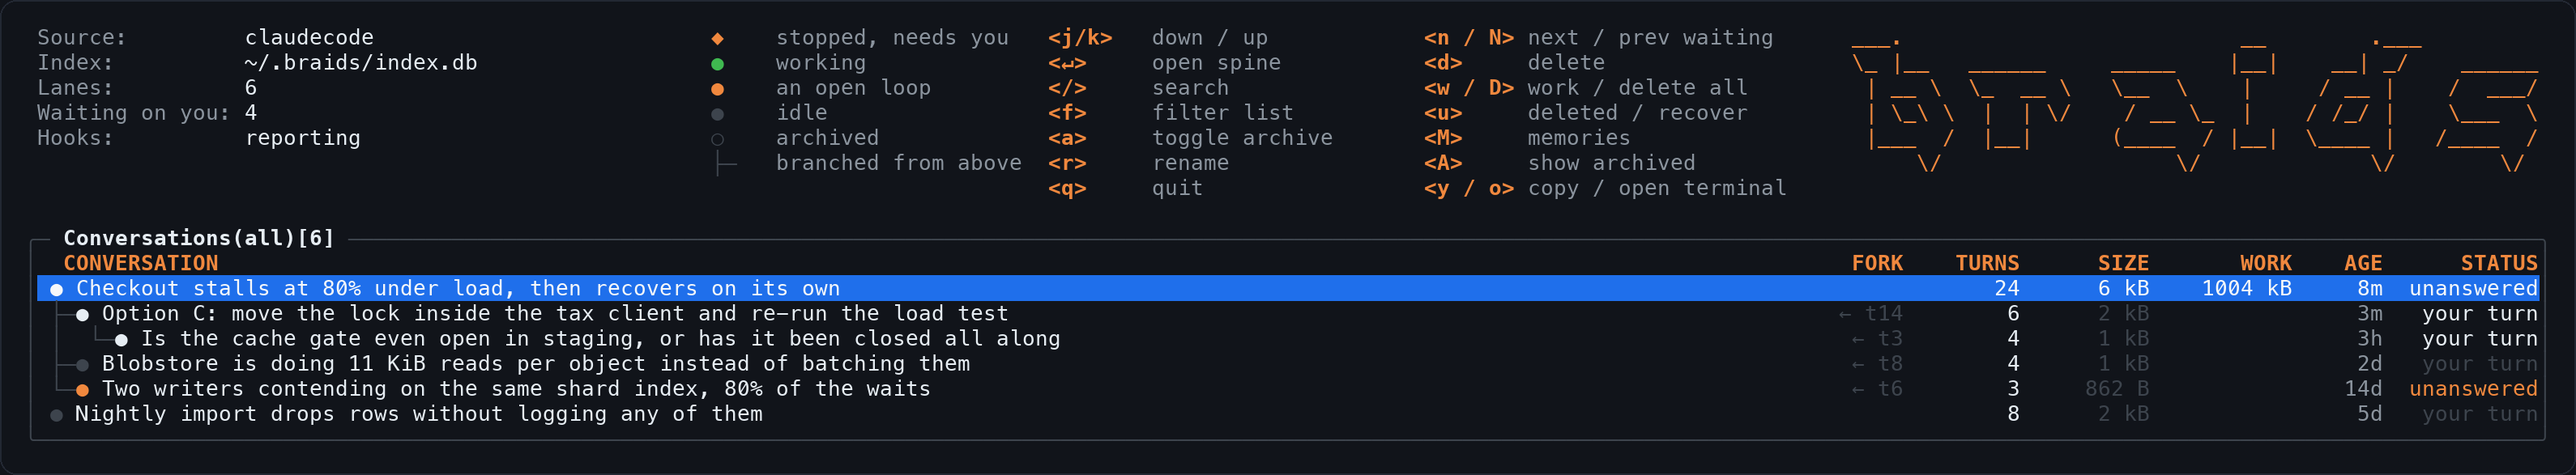
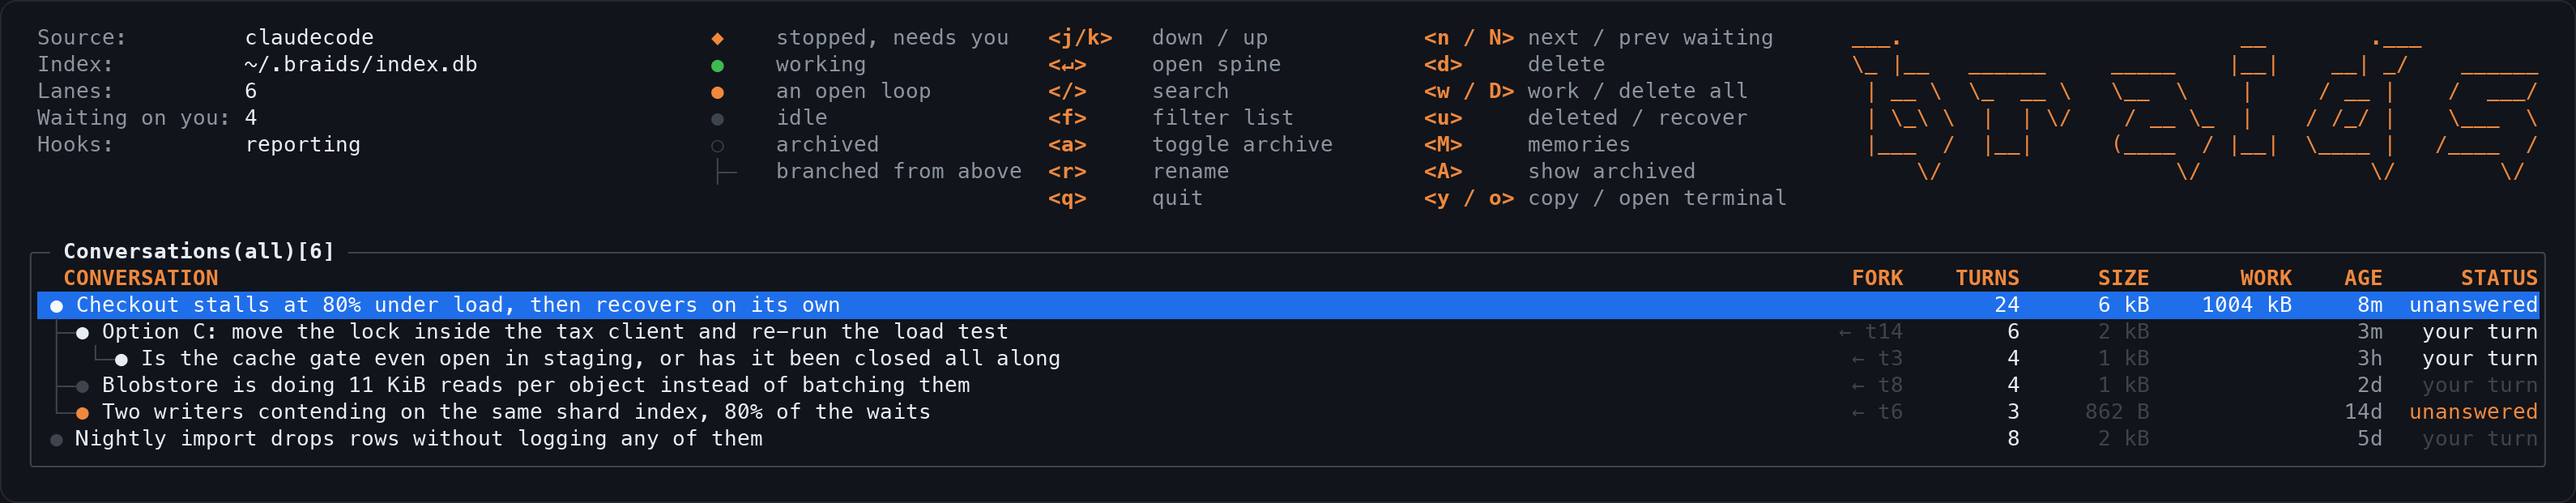
Give the rows the most air the box glyphs allow, and nest the sidebar
1.15 fixed the dashed borders but left the frame cramped, and the ASCII
mark in particular went blobby: at that spacing its underscores and
backslashes nearly touch the row below. The limit is measurable, so I
measured it by walking down a panel's left rule and counting breaks. The
box glyphs are 1.269em tall: a 33px step at size 26 is joined, 34px is
not. Rows now sit just under that ceiling, 1.25 in the browser and 1.26
in the PNGs, which is as much air as the art can have while the borders
still meet.

The docs sidebar had two lists, each with its own accent marker, which is
two competing answers to "where am I". The current page's headings are
nested under it now, so the page reads as the place and the heading as
the spot within it: the page goes brighter and heavier with the accent on
its rule, and the accent text is saved for the heading you are at.

diff --git a/site/docs.py b/site/docs.py
@@ -42,9 +42,13 @@ DOCS_CSS = CSS + """
 .side a { display:block; color:var(--dim); font-size:14.5px; padding:4px 0 4px 11px;
           border-left:1px solid var(--line); }
 .side a:hover { color:var(--ink); text-decoration:none; border-left-color:var(--faint); }
-.side a.on { color:var(--accent); border-left-color:var(--accent); }
+/* The page you are on is a place, so it reads as a label: brighter and
+   heavier, with the accent on its rule. The accent text itself is saved for
+   the heading you are actually at, nested underneath. */
+.side a.page.on { color:var(--ink); font-weight:600; border-left-color:var(--accent); }
 .side .group { margin-bottom:24px; }
-.side .onthis a { font-size:13.5px; color:var(--faint); }
+.side .onthis { margin:2px 0 6px; }
+.side .onthis a { font-size:13px; color:var(--faint); padding:3px 0 3px 22px; }
 .side .onthis a:hover { color:var(--ink); }
 .side .onthis a.here { color:var(--accent); border-left-color:var(--accent); }
 
@@ -962,19 +966,24 @@ def index_cards() -> str:
 
 
 def sidebar(active: str, body: str) -> str:
-    """Every page, plus the headings of the one you are on."""
-    pages = ""
+    """Every page, with the current one's headings nested under it.
+
+    Two lists, each with its own accent marker, read as two competing answers
+    to "where am I". Nested, the page is the place and the heading is the spot
+    within it, so one highlight can sit under the other without arguing.
+    """
+    out = ""
     for slug, label, _, _, _ in PAGES:
         on = " on" if slug == active else ""
         href = f"/docs/{slug}/" if slug else "/docs/"
-        pages += f'<a class="page{on}" href="{href}">{label}</a>'
-    here = ""
-    found = [(i, re.sub(r"<[^>]+>", "", t).strip()) for i, t in HEADING.findall(body)]
-    if found:
-        here = '<div class="group onthis"><h6>On this page</h6>' + "".join(
-            f'<a href="#{i}">{t}</a>' for i, t in found) + "</div>"
-    return (f'<aside class="side"><div class="group"><h6>Docs</h6>{pages}</div>'
-            f'{here}</aside>')
+        out += f'<a class="page{on}" href="{href}">{label}</a>'
+        if slug != active:
+            continue
+        found = [(i, re.sub(r"<[^>]+>", "", t).strip()) for i, t in HEADING.findall(body)]
+        if found:
+            out += '<div class="onthis">' + "".join(
+                f'<a href="#{i}">{t}</a>' for i, t in found) + "</div>"
+    return f'<aside class="side"><div class="group"><h6>Docs</h6>{out}</div></aside>'
 
 
 def pager(index: int) -> str:

diff --git a/site/chrome.py b/site/chrome.py
@@ -354,8 +354,11 @@ figure.frame pre {
   -webkit-overflow-scrolling:touch;
   /* A terminal has no gap between its rows, and braids draws boxes. At 1.5
      the vertical rules stop touching and every panel border reads as a dashed
-     line, which is what "the screens look misaligned" turned out to mean. */
-  line-height:1.15;
+     line, which is what "the screens look misaligned" turned out to mean.
+     The box glyphs are 1.269em tall, measured, so 1.26 is the ceiling and
+     anything above it dashes the rules. Sitting just under it gives the ASCII
+     mark as much air as it can have while the borders still join. */
+  line-height:1.25;
   /* A frame is 195 columns and has to fit its box, or the panel border
      scrolls off the right. One column is 0.6em in every face in --mono, so
      the size comes from the width the figure actually gets. The first value

diff --git a/scripts/ansi2png.py b/scripts/ansi2png.py
@@ -75,9 +75,12 @@ def convert(ans: str) -> Image.Image:
     regular = ImageFont.truetype(FACE, SIZE, index=0)
     bold = ImageFont.truetype(FACE, SIZE, index=1)
     advance = regular.getlength("M")
-    # No leading between rows: a terminal has none, and braids draws boxes.
-    # Any gap turns every vertical rule into a dashed line.
-    step = round(SIZE * 1.18)
+    # A terminal has no leading between rows, and braids draws boxes, so any
+    # gap turns every vertical rule into a dashed line. The box glyphs are
+    # 1.269em tall: measured by walking down the rule and counting breaks, a
+    # 33px step at size 26 is joined and 34px is not. Sit just under it, so
+    # the ASCII mark gets what air it can.
+    step = round(SIZE * 1.26)
 
     cols = max((len(SGR.sub("", line)) for line in lines), default=0)
     width = round(cols * advance + 2 * PAD)
